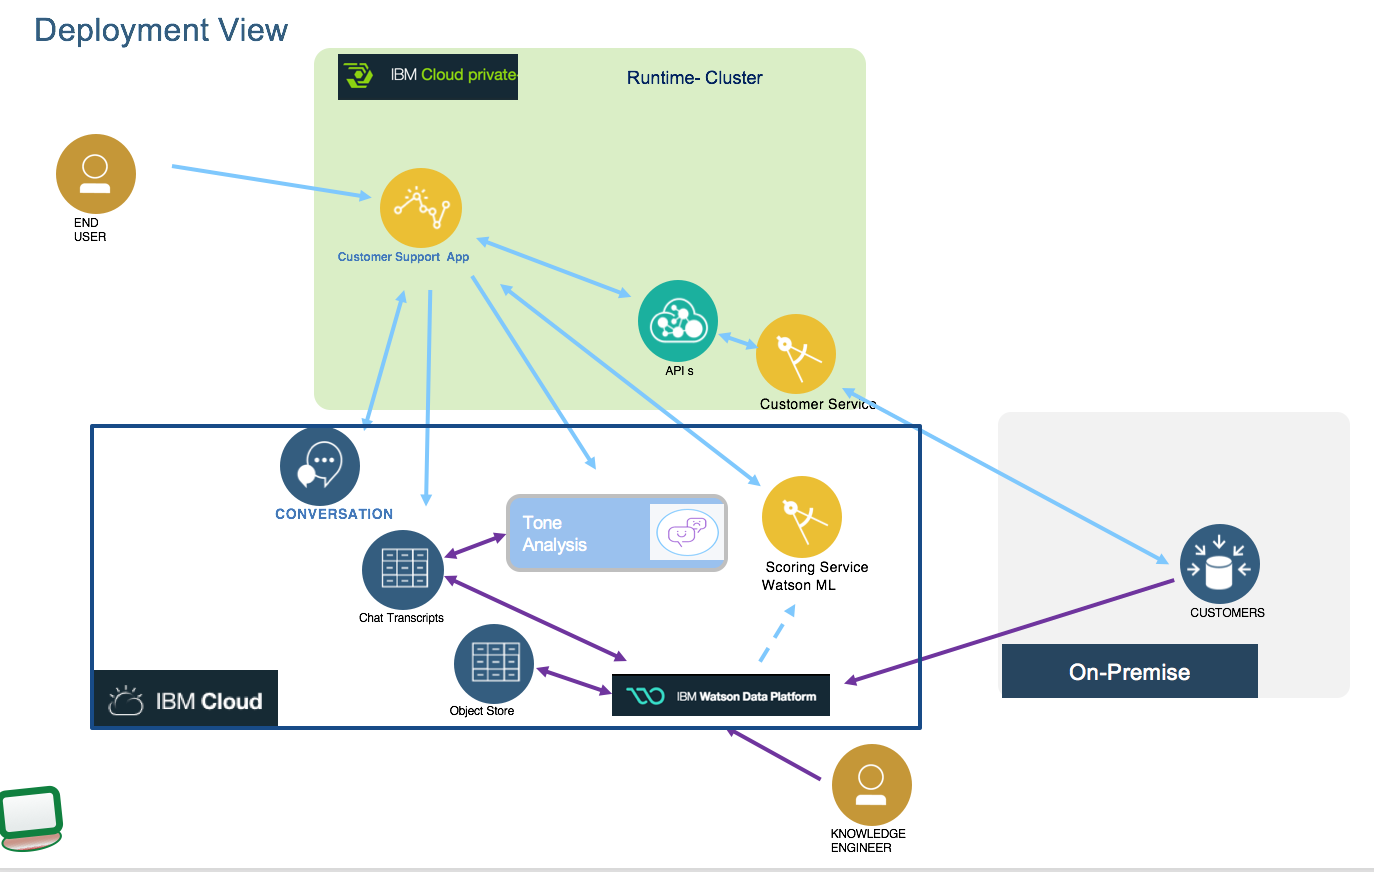
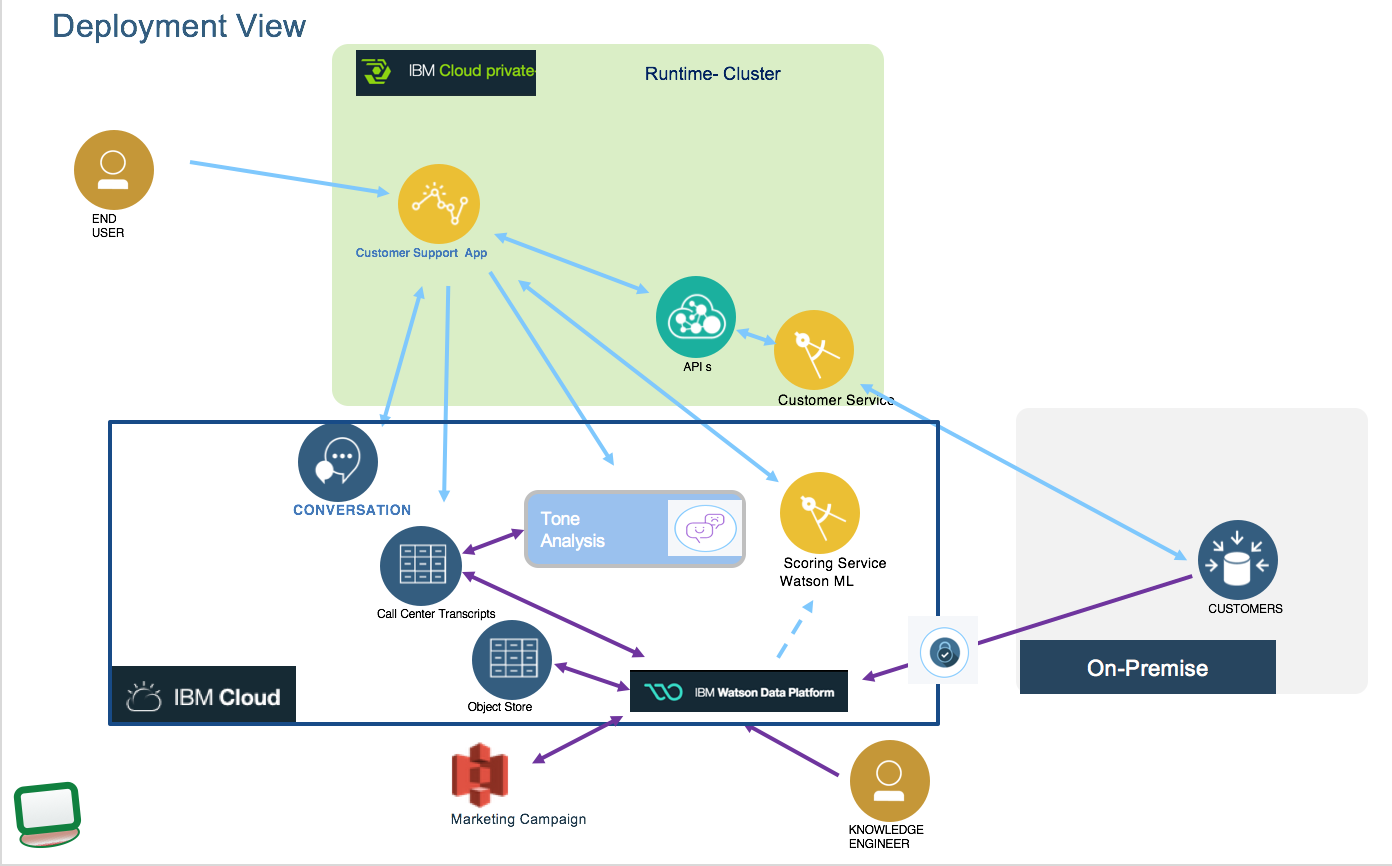
Change the cfg 3, and update main readme

diff --git a/README.md b/README.md
@@ -60,7 +60,7 @@ The customer churn service helped Eddie to remain as a customer for the Green Te
 ### System Context diagram
 The following diagram illustrates the system context of the application, including analytics model preparation and run time execution.
 
-![](docs/syst-ctx-0.png)
+![](docs/syst-ctx.png)
 
 This repository presents best practices to deploy such solution on public and private cloud, implements the webapp deployable in public or private cloud, and deliver example of data sets.
 
@@ -78,8 +78,11 @@ From above figure left to right the components involved are:
 1. Data scientists use machine learning library and Jupiter notebook, R Studio or Zeppelin on top of Apache Spark in IBM Data Science Experience (DSX) to discover the model. We are documenting two different approaches:
   * One based on Watson Data Platform running on IBM Cloud and described in [This note](./docs/ml/README.md) with [a jupyter notebook](./docs/ml/CustomerChurnAnalysisCI-bpull.md).
   * One based on [Private cloud using DSX and Db2 warehouse](docs/ml/icp-dsx-ml-model.md).
+
 1. The data used by data scientists are persisted in Db2 warehouse. [This note](https://github.com/ibm-cloud-architecture/refarch-analytics/tree/master/docs/db2warehouse) goes over the creation of the Db2 warehouse release within IBM Cloud private.
 1. **Ingestion** mechanism can move data, for chat transcripts and customer records to the DB2 warehouse. This process can run on demand when Data Scientists need new data to tune the model. It can be implemented with an ETL, with Java program, or using the Db2 Federation capability. [This note](docs/data/README.md) explains what was done to move DB2 customer data to Db2 warehouse.
+1. The natural language understanding service is added to support most advanced language processing from the text entered but the end user: entity extraction, relationships, taxonomy, etc. Those elements could be used for scoring services. The language understanding can be fine tuned by using terms and model defined in **Watson Knowledge Studio**.
+
 
 ### Demonstration Script
 As an executable solution, we are presenting the demonstration script in a [separate note.](docs/flow/README.md). You need to have a running environment or being able to access our IBM internal environment for that.
@@ -112,35 +115,38 @@ From a pure software engineering implementation, we adopt agile, iterative imple
 TO BE COMPLETED.
 
 ## Deployment
-There are multiple possible configurations for the deployment, depending of the use of public and private cloud and the legacy system involved. For the back end we have  two options: Z OS with DB2 and Z Connect, and Java based REST micro service and DB2. For the machine learning DSX on ICP with Spark cluster for model execution or Watson Data Platform on IBM Cloud with Watson ML on IBM Cloud for the scoring service.
+There are multiple possible configurations for the deployment, depending of the use of public and private cloud and the legacy system involved. For the back end we have two options: Z OS with DB2 and Z Connect, and Java based REST micro service and DB2.
+
+For the machine learning, two options too, 1- DSX on ICP with Spark cluster for model execution or 2- Watson Data Platform on IBM Cloud with Watson ML on IBM Cloud for the scoring service.
 
 ### Using data service as a Java micro service:
-The first configuration deploys the customer manager micro service on ICP, accessing customer and account tables in DB2 servers out side of ICP, with API Connect to manage customer API product. The Web application is deployed on ICP, as well as the scoring service.
+The first configuration deploys the `customer manager` micro service on IBM Cloud Private, accessing customer and account tables deployed on DB2 servers out side of ICP. API Connect is used to manage customer API product. The Web application, the customer service, and the churn risk scoring are deployed on ICP.
 
 ![](docs/deployment-cfg1.png)
 
-* As machine learning discovery tasks running on Spark cluster are development activities and consume a lot of resources we separated the DSX, Db2 warehouse and Spark cluster in its separate ICP instance
+* As machine learning discovery tasks running on Spark cluster are development activities and consume a lot of resources we propose to separate the DSX, Db2 warehouse and Spark cluster in its separate ICP instance. The decision to use separate cluster is really linked to the size of the dataset to process, and the execution frequency: with dedicated team of Data Scientist, with terrabyte of data.
 * The runtime for cloud native applications and micro services is an ICP with HA and DR support.
 * The scoring service is deployed on a Spark Cluster running on ICP runtime cluster.
-* The DB2 instance runs on separate servers, to illustrate the use case of keeping existing infrastructure investments.
+* The DB2 instance runs on separate on-premise servers, to illustrate the use case of keeping existing infrastructure investments.
 * Watson Cognitive services are on IBM Cloud, public offering,
+* The datasource to persist the conversation data is Cloudant DB on Public Cloud.
 
-### The run time clustering
+### The ICP run time clustering
 The cluster topology with some of the major ICP and solution components will look like the following diagram:
 
 ![](docs/icp-compo.png)
 
-The dashed lines highlight the deployment concept of k8s. The Db2 warehouse is using external Glusterfs cluster for persisting data via the persistent volumes and persistent volume claim.
+The dashed lines highlight the deployment concept of k8s. The Db2 warehouse is using external `Glusterfs` cluster for persisting data via the persistent volumes and persistent volume claim.
 
 The spark cluster, master, spawner... are deployments inside ICP and installed via DSX Local.  
 ![](docs/icp-dsx-spark.png)
 
 ### Using Watson Data Platform
-As an alternate to use DSX on ICP to develop the machine learning model, Data Scientist can use Watson Data platform to gather the data, persist in public object store and deploy the model once trained to Watson Machine learning.
+As an alternate to use DSX on ICP to develop the machine learning model, Data Scientist can use Watson Data platform to gather the data from multiple datasources like Amazon S3, CloudantDB, and from transactional data, persist in public object store and deploy the model once trained to Watson Machine learning.
 
 ![](docs/deployment-cfg3.png)
 
-See [this note](docs/ml/README.md) for detail about the implementation of the model.
+See [this note](docs/ml/README.md) for detail about the implementation of the analytic model, and the see the `WMLChurnServiceClient.js` code for the integration part.
 
 ### Using Data Service as Z Connect service
 For Z OS deployment the solution looks like the diagram below, where the data service and DB2 are running on Z OS.
